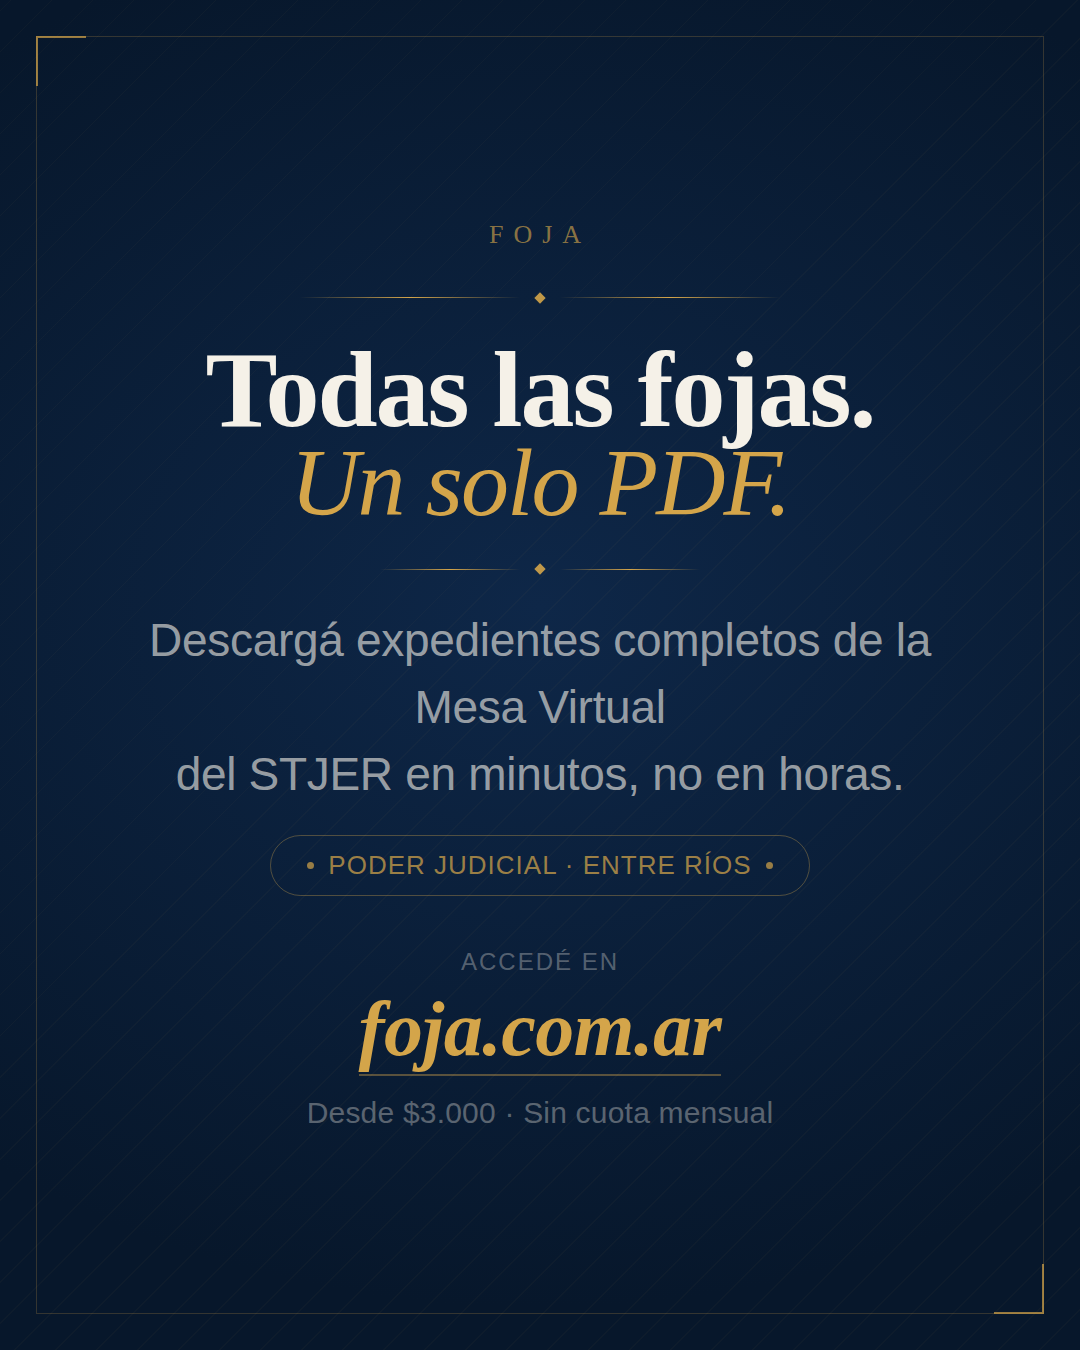
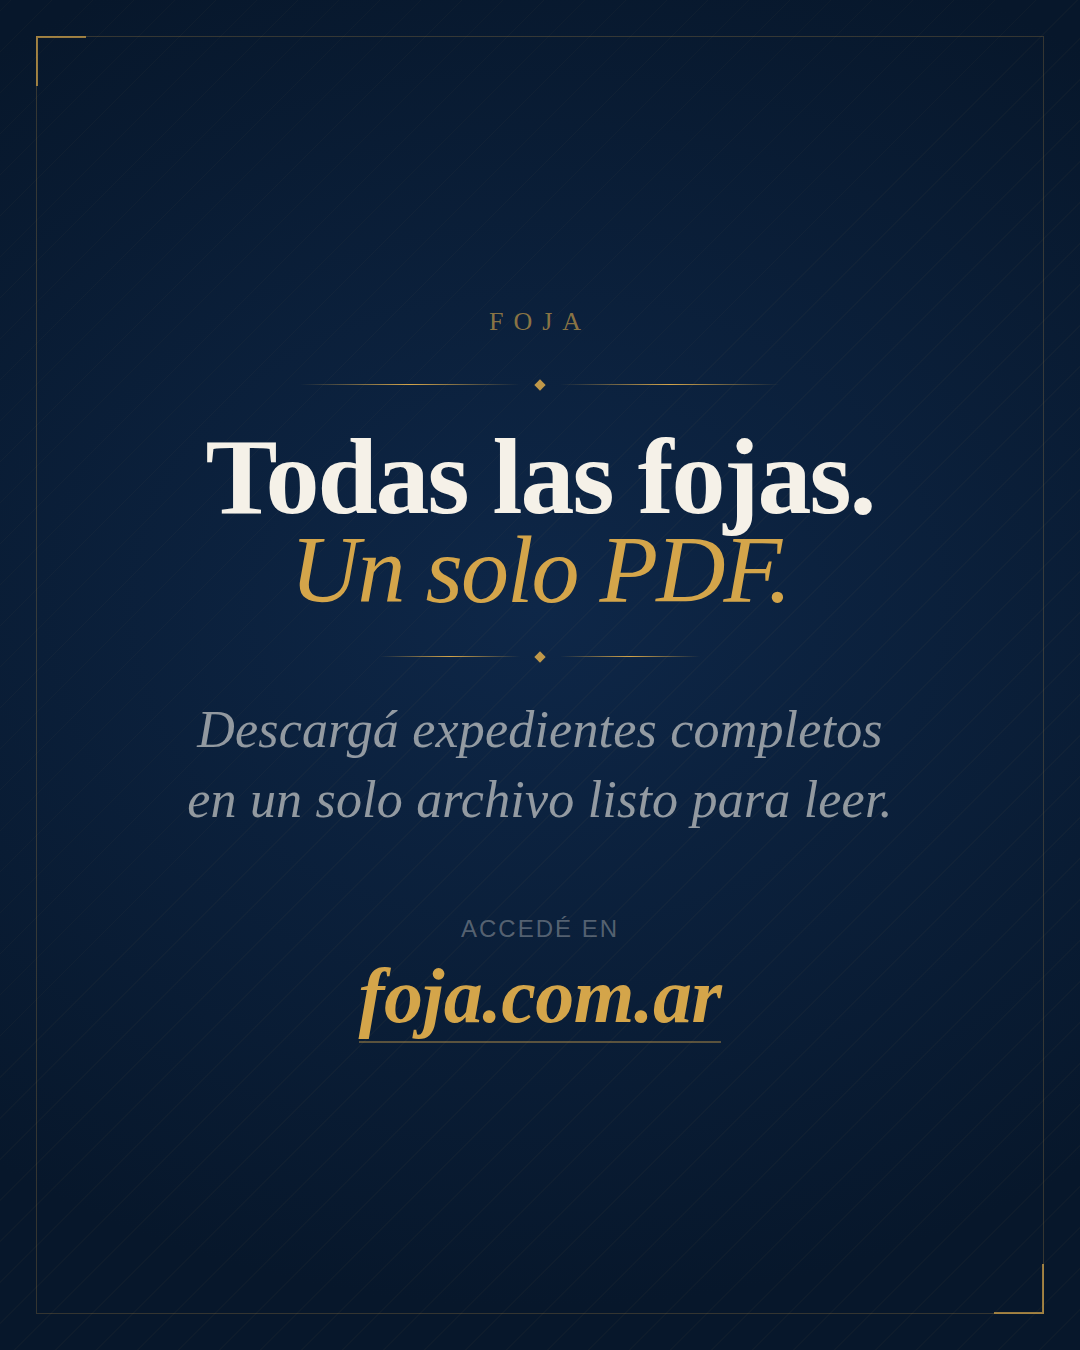
update: simplificar flyer — subtítulo en Cormorant, sin badge ni precio
- Texto subtítulo actualizado al copy definitivo
- Subtítulo cambiado de Inter a Cormorant Garamond itálica
- Eliminado badge "Poder Judicial" (riesgo de derechos)
- Eliminado hint de precio (no aporta en este contexto)

https://claude.ai/code/session_012ZZGKWimE5ZTse9KwXi2DK

Changed region(s): [[0.1222, 0.2489, 0.8556, 0.6533], [0.275, 0.6844, 0.7333, 0.84], [0.4889, 0.2178, 0.5194, 0.2489]]

diff --git a/static/marketing/flyer-whatsapp-er.html b/static/marketing/flyer-whatsapp-er.html
@@ -162,46 +162,21 @@
             margin: 38px 0 34px;
         }
 
-        /* subtítulo — 46px: legible a escala WhatsApp (~12px efectivos) */
+        /* subtítulo */
         .subtitle {
-            font-family: 'Inter', sans-serif;
+            font-family: 'Cormorant Garamond', serif;
             font-weight: 300;
-            font-size: 46px;
-            line-height: 1.45;
-            color: rgba(245, 241, 232, 0.62);
-            letter-spacing: -0.3px;
-            max-width: 860px;
-        }
-
-        /* badge STJER */
-        .badge {
-            margin-top: 28px;
-            display: inline-flex;
-            align-items: center;
-            gap: 14px;
-            border: 1.5px solid rgba(212, 165, 74, 0.35);
-            border-radius: 100px;
-            padding: 14px 36px;
-            font-family: 'Inter', sans-serif;
-            font-size: 26px;
-            font-weight: 400;
-            letter-spacing: 1px;
-            text-transform: uppercase;
-            color: rgba(212, 165, 74, 0.72);
-        }
-
-        .badge-dot {
-            width: 7px;
-            height: 7px;
-            background: #d4a54a;
-            border-radius: 50%;
-            opacity: 0.7;
-            flex-shrink: 0;
+            font-style: italic;
+            font-size: 52px;
+            line-height: 1.35;
+            color: rgba(245, 241, 232, 0.58);
+            letter-spacing: 0.2px;
+            max-width: 820px;
         }
 
         /* CTA */
         .cta-wrap {
-            margin-top: 52px;
+            margin-top: 80px;
             display: flex;
             flex-direction: column;
             align-items: center;
@@ -229,15 +204,6 @@
             padding-bottom: 6px;
         }
 
-        /* precio hint */
-        .precio-hint {
-            margin-top: 6px;
-            font-family: 'Inter', sans-serif;
-            font-size: 30px;
-            font-weight: 300;
-            color: rgba(245, 241, 232, 0.35);
-            letter-spacing: 0.2px;
-        }
     </style>
 </head>
 <body>
@@ -267,20 +233,13 @@
         </div>
 
         <p class="subtitle">
-            Descargá expedientes completos de la Mesa Virtual<br>
-            del STJER en minutos, no en horas.
+            Descargá expedientes completos<br>
+            en un solo archivo listo para leer.
         </p>
-
-        <div class="badge">
-            <span class="badge-dot"></span>
-            Poder Judicial · Entre Ríos
-            <span class="badge-dot"></span>
-        </div>
 
         <div class="cta-wrap">
             <span class="cta-label">Accedé en</span>
             <span class="cta-url">foja.com.ar</span>
-            <span class="precio-hint">Desde $3.000 · Sin cuota mensual</span>
         </div>
 
     </div>
